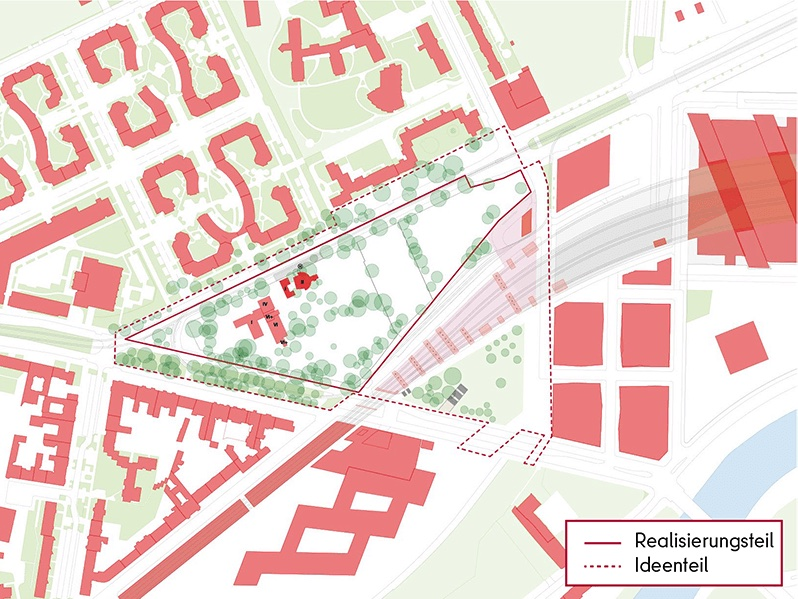
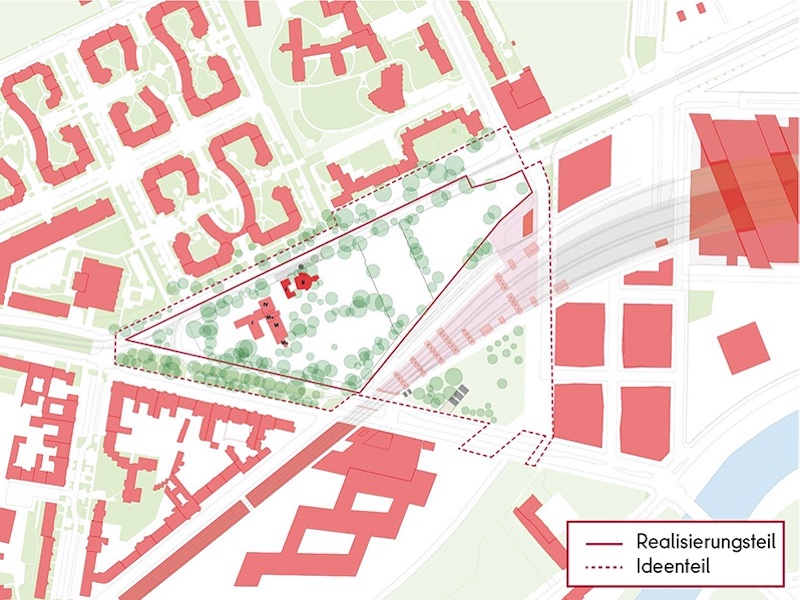
fix

diff --git a/aufgabenstellung/index.html b/aufgabenstellung/index.html
@@ -19,10 +19,10 @@
   <meta property="og:locale" content="de_DE" />
   <meta
     property="og:image"
-    content="https://ulap-quartier.berlin.de/assets/Aufgabenstellung_800.png"
+    content="https://ulap-quartier.berlin.de/assets/Aufgabenstellung_800.jpg"
   />
-  <meta property="og:image:width" content="798" />
-  <meta property="og:image:height" content="599" />
+  <meta property="og:image:width" content="800" />
+  <meta property="og:image:height" content="600" />
   <meta property="og:image:type" content="image/jpeg" />
   <meta name="twitter:card" content="summary_large_image" />
   <meta name="twitter:creator" content="@SenSBW" />
